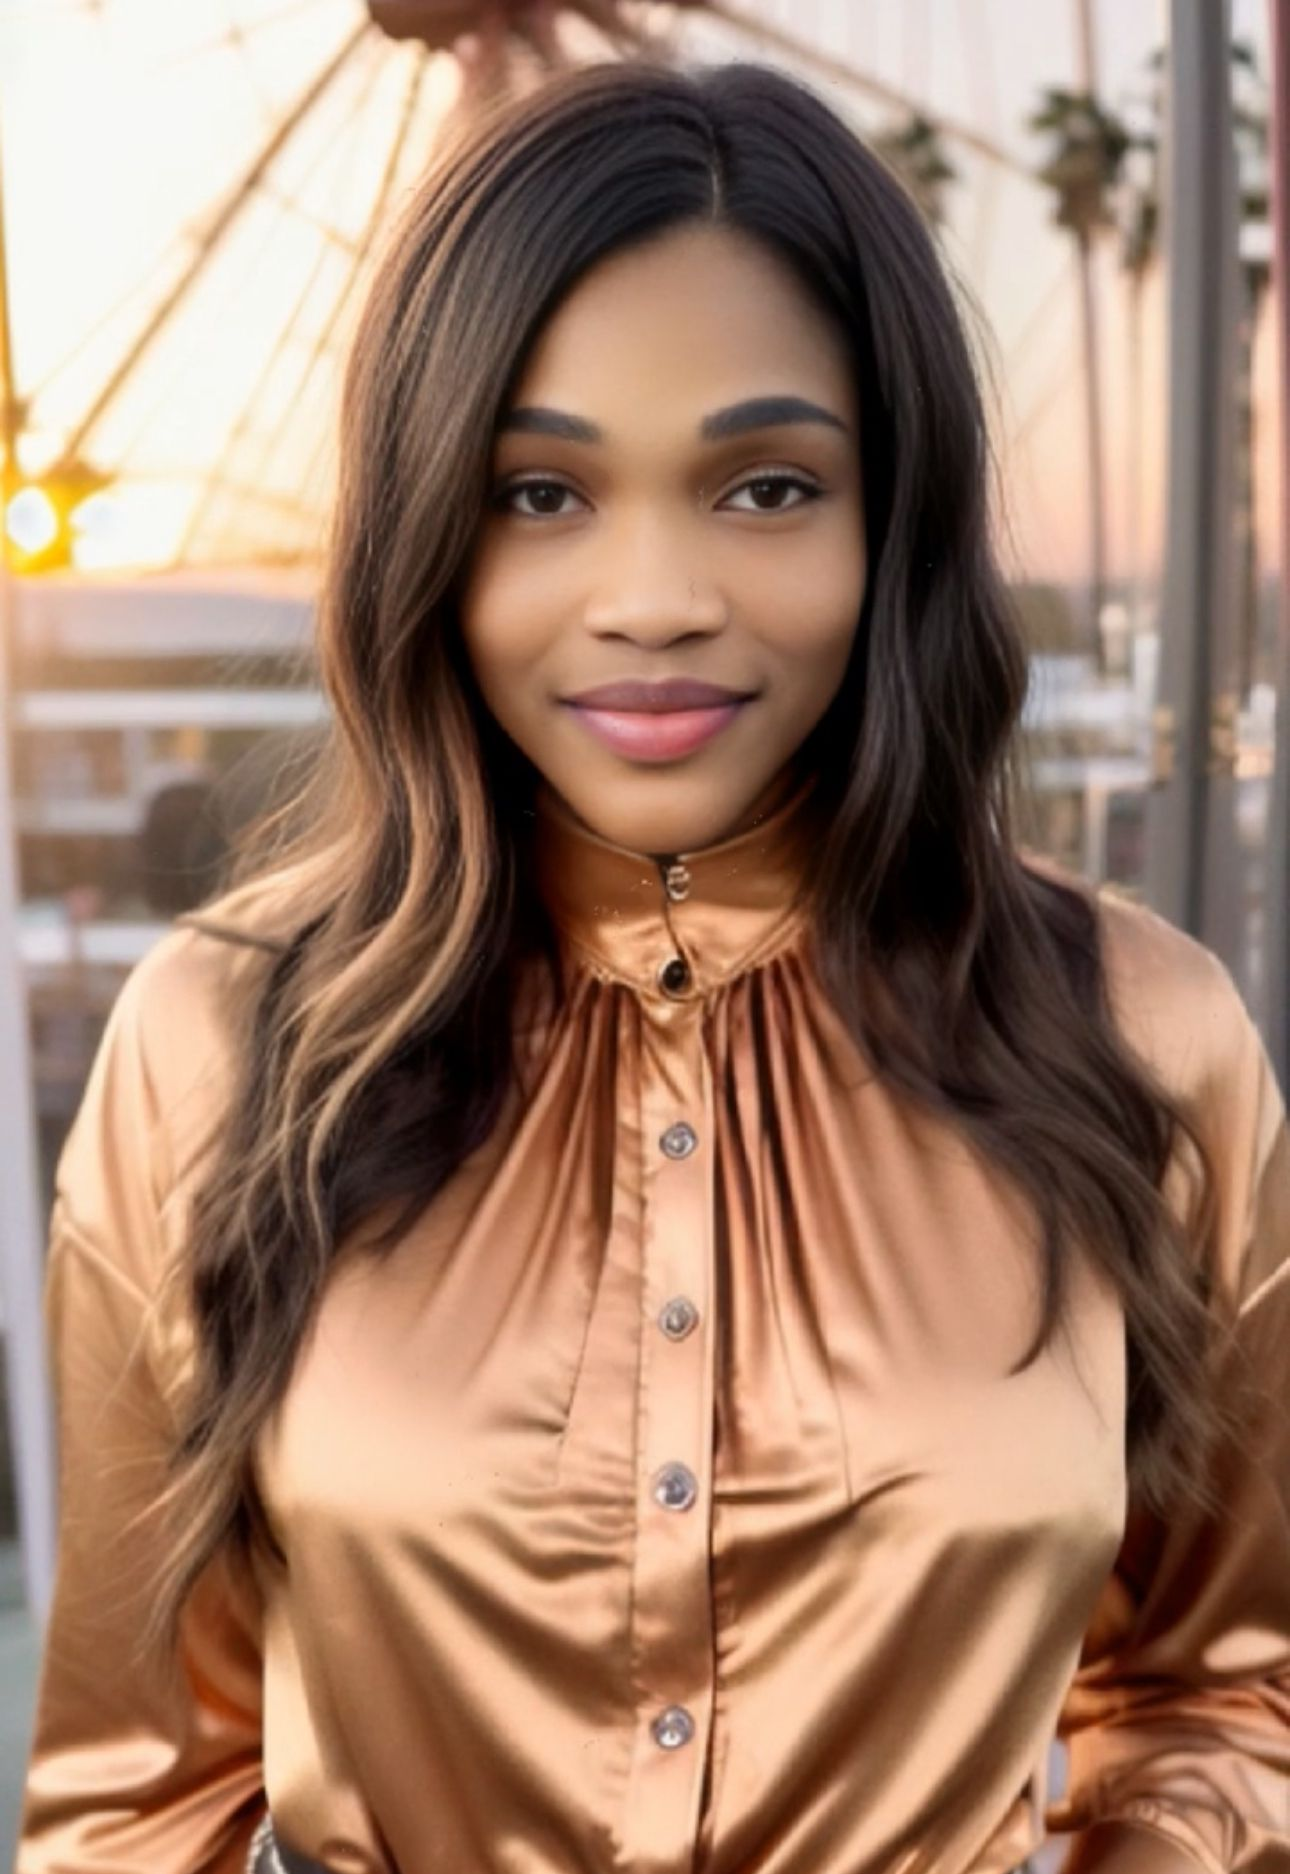
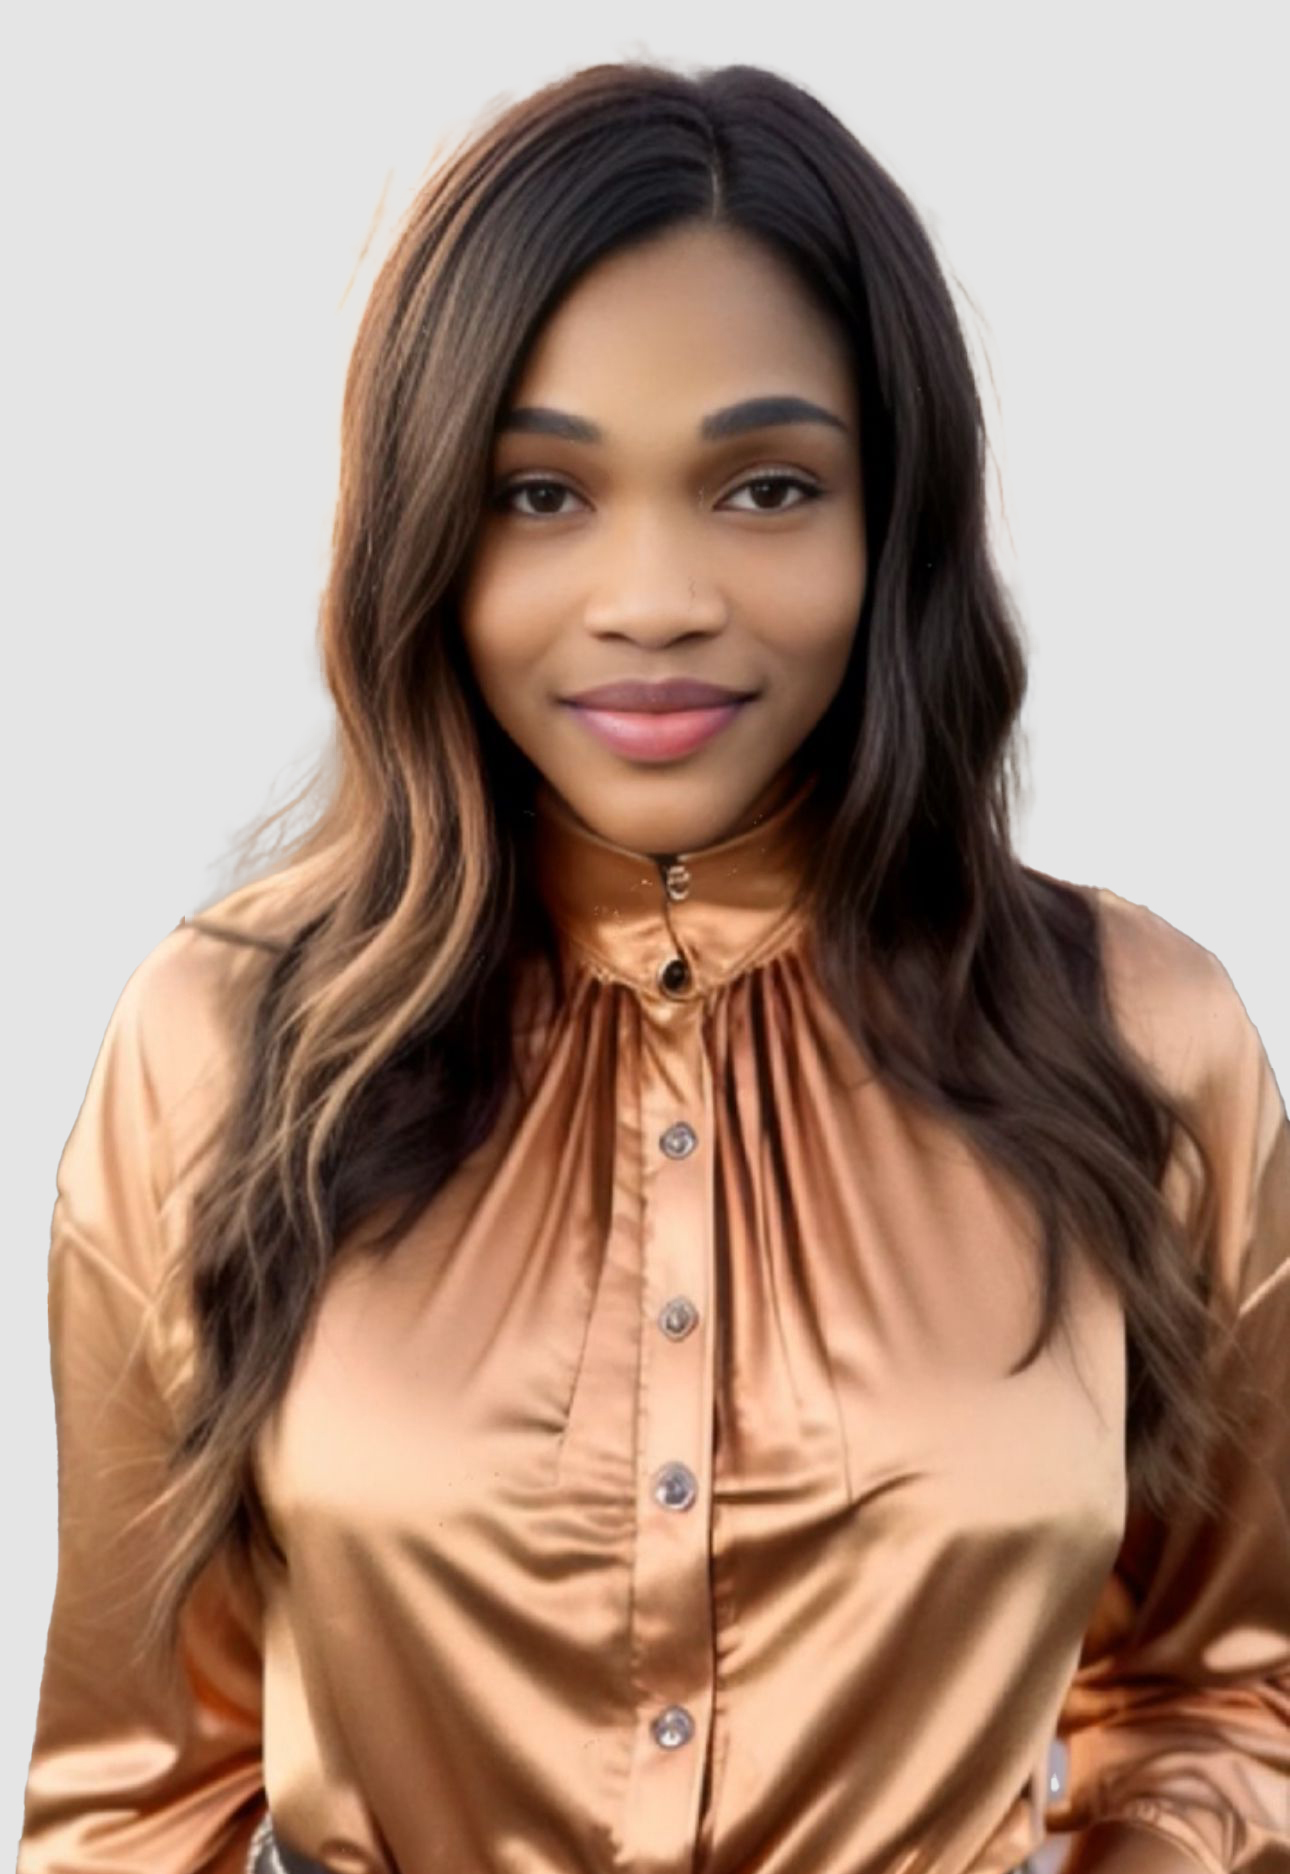
Update

Changed region(s): [[0.0, 0.0, 1.0, 1.0]]

diff --git a/src/components/hero/heroSection.css b/src/components/hero/heroSection.css
@@ -4,7 +4,9 @@
   justify-content: center;
   height: 100vh;
   /* background: var(--first-gradient);*/
-  background-image: url('../../assets/Background.jpg');
+  background-image: url('../../assets/black.jpg');
+
+  background-image: var(--second-gradient);
   background-size: cover; /* Make the background cover the entire area */
   background-position: center; /* Center the image */
   background-repeat: no-repeat; /* Prevent the image from repeating */

diff --git a/src/components/home/Home.jsx b/src/components/home/Home.jsx
@@ -1,7 +1,7 @@
 import React from "react";
 import { FaGithubAlt, FaLinkedinIn } from "react-icons/fa";
 import { Link } from "react-scroll";
-import Profile from "../../assets/Eunic.jpg";
+import Profile from "../../assets/Eunic.png";
 import CV from "../../assets/IWEBEMA Williams_ Data Analyst CV.pdf";
 import "./home.css";
 
